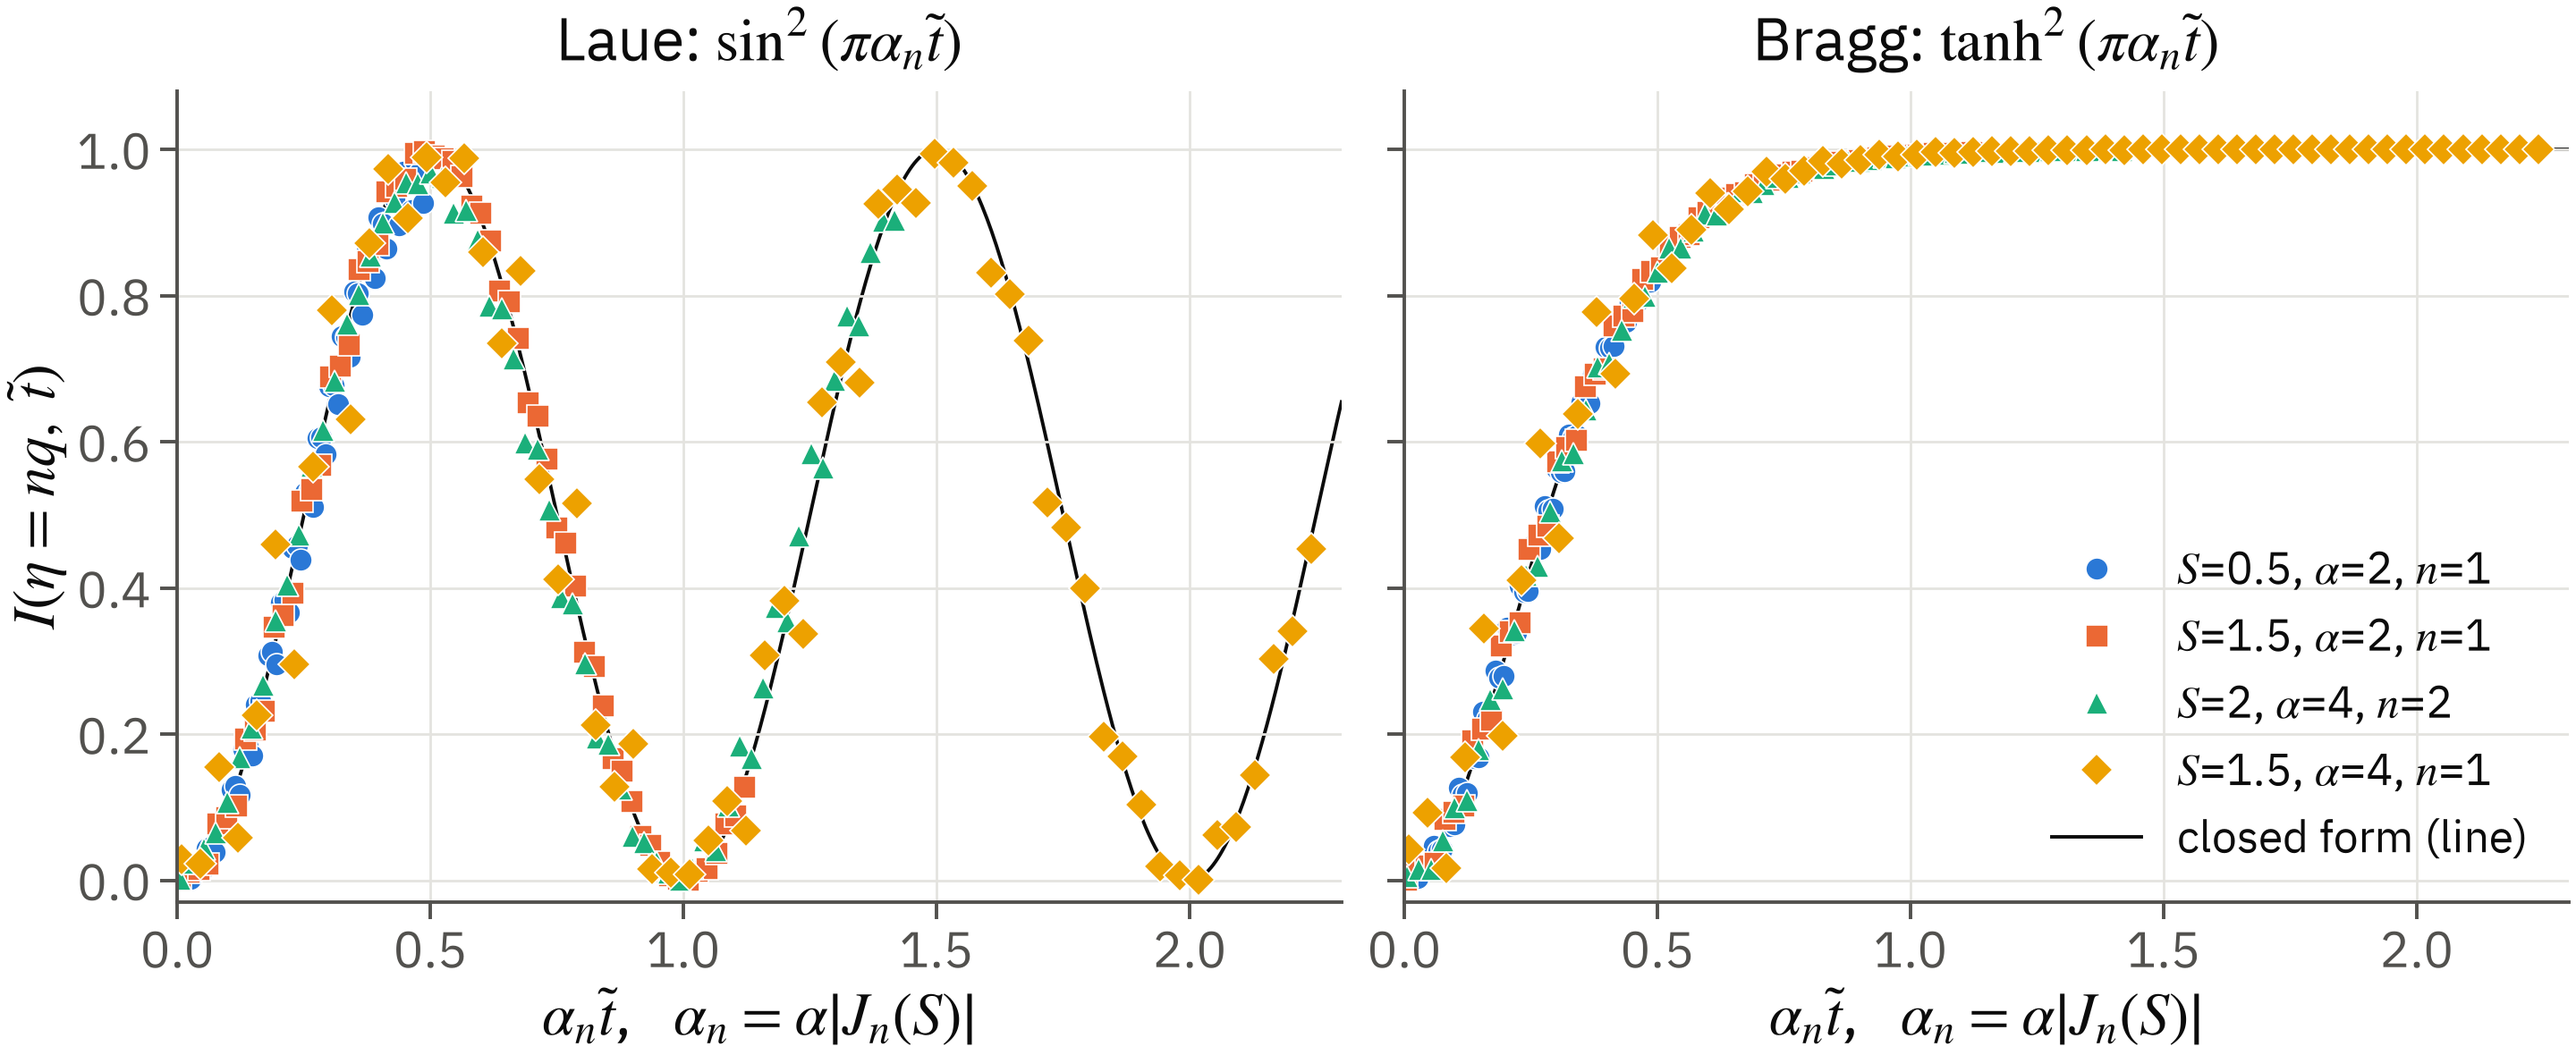
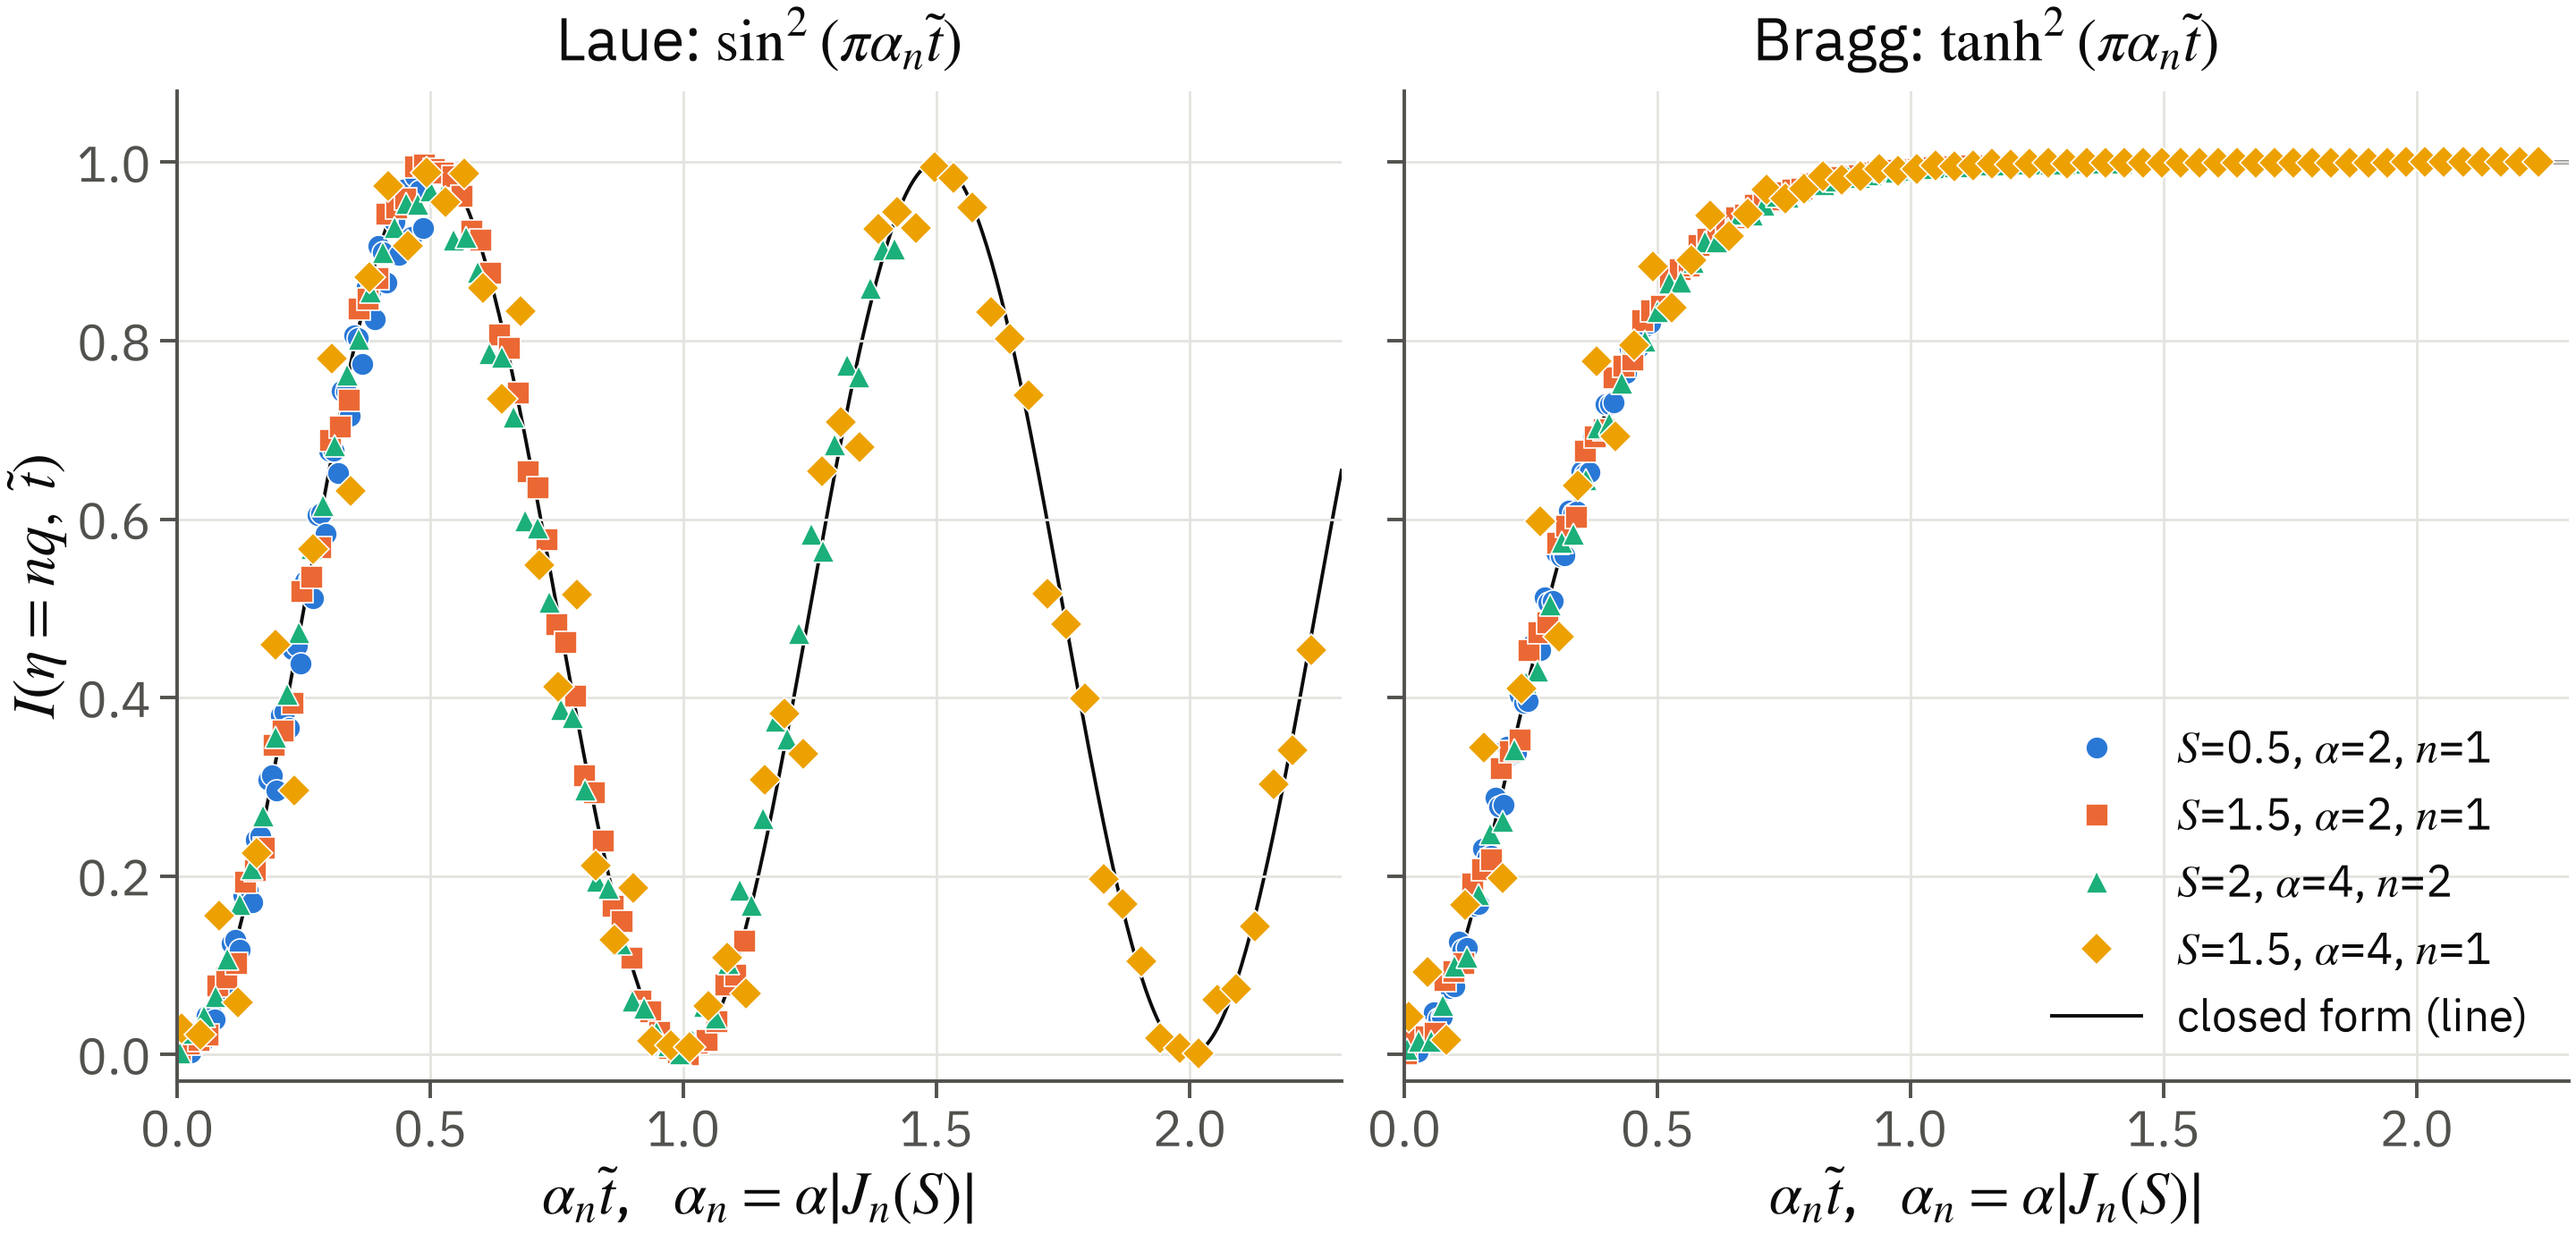
Poster: compress to three claims, with the evidence under them
Not a redesign. Same seven panels, same results; the emphasis is re-cut so a
passer-by leaves with three sentences instead of a list of findings:

  1 each satellite has its own dynamical clock;
  2 the transient remembers the drive history;
  3 the independent-satellite picture holds up to R ~ 0.3.

- Panel 1's band now ends on the contrast that carries the whole poster,
  "transit time sets the window; extinction length sets the clock", and names
  tau_n rather than spelling the coupling out.
- Panel 2 drops to three lines. Nobody reads the model panel; it only has to
  establish what was solved and that it was checked.
- Panel 3 states the mapping once and lets the collapse argue for itself: one
  bullet, two closed forms, the plot a sixth taller, and the Bessel-ladder
  sentence moved into the caption.
- Panel 5 gains a band, "same final amplitude != same diffraction state", so the
  up/down curves are readable without the text.
- Panel 6 is now a question, and leads with the answer: accurate to 5 % up to
  R <~ 0.3. Its figure gains the dashed boundary and the two regime labels, so
  the result survives without decoding the scatter. The mechanism is named as
  Entry 44 found it -- indirect paths through forward-beam sidebands -- not as
  vague hybridisation.
- Panel 7 replaces three unlabelled numbers with CLOCK / MEMORY / VALIDITY and
  one closing sentence; the Si 440 conditions move in with the outlook.
[…]

diff --git a/poster/build.py b/poster/build.py
@@ -1,4 +1,4 @@
-"""poster/poster.md -> poster/out/poster.pdf (+ PNG preview). Run: python poster/build.py [preview_dpi]
+r"""poster/poster.md -> poster/out/poster.pdf (+ PNG preview). Run: python poster/build.py [preview_dpi]
 
 Same idea as a print pipeline: the manuscript is canonical and read-only, every coordinate comes
 from SPEC (mm, page origin top-left), and the build ends with machine checks. Looking at the PNG
@@ -239,7 +239,8 @@ def bullet(P, it, x, y, w, draw=True):
         d = s["body_pt"] * PT_MM * 0.24                     # marker side
         mid = y + s["body_pt"] * PT_MM * (1 - XH / 2)       # middle of the x-height of the first line
         P.box(x + 0.5, mid - d / 2, d, d, s["accent"], r=0.5, z=3)
-    return P.flow(it["text"], x, y, w, s["body_pt"], indent=7, draw=draw) + s["para_gap"]
+    return P.flow(it["text"], x, y, w, s["body_pt"], indent=7, draw=draw,
+                  strong=s["accent"]) + s["para_gap"]
 
 
 def callout(P, it, x, y, w, draw=True):
@@ -281,7 +282,8 @@ def text_height(P, items, ix, iw):
         elif it["kind"] == "stats":
             y = stats(P, it, ix, y, iw, draw=False)
         elif it["kind"] == "para":
-            y = P.flow(it["text"], ix, y, iw, s["body_pt"], draw=False) + s["para_gap"]
+            y = P.flow(it["text"], ix, y, iw, s["body_pt"], draw=False,
+                      strong=s["accent"]) + s["para_gap"]
     return y
 
 
@@ -384,7 +386,8 @@ def build(preview_dpi=60, extra=None, save=True):
                     continue
                 y += P.image(f, ix, y, iw) + s["fig_gap"]
                 if it["caption"]:
-                    y = P.flow(it["caption"], ix, y, iw, s["caption_pt"], s["ink2"])
+                    y = P.flow(it["caption"], ix, y, iw, s["caption_pt"], s["ink2"],
+                                strong=s["accent"])
                 y += s["para_gap"]
             elif it["kind"] == "bullet":
                 y = bullet(P, it, ix, y, iw)
@@ -393,7 +396,8 @@ def build(preview_dpi=60, extra=None, save=True):
             elif it["kind"] == "stats":
                 y = stats(P, it, ix, y, iw)
             else:
-                y = P.flow(it["text"], ix, y, iw, s["body_pt"]) + s["para_gap"]
+                y = P.flow(it["text"], ix, y, iw, s["body_pt"],
+                           strong=s["accent"]) + s["para_gap"]
         if side:
             y = max(y, fyy)
         y += s["pad"] - s["para_gap"]

diff --git a/explore/make_poster_figs.py b/explore/make_poster_figs.py
@@ -153,7 +153,7 @@ def f0():
 def f1():
     import make_poster_figure as M
     style()
-    fig, ax = plt.subplots(1, 2, figsize=(FIG_W, 5.9), constrained_layout=True, sharey=True)
+    fig, ax = plt.subplots(1, 2, figsize=(FIG_W, 6.9), constrained_layout=True, sharey=True)
     M.collapse(ax[0], "laue", lambda s: np.sin(np.pi * s) ** 2, r"$\sin^2(\pi\alpha_n\tilde t)$",
                r"Laue: $\sin^2(\pi\alpha_n\tilde t)$", small=SMALL - 4, ms=9)
     M.collapse(ax[1], "bragg", lambda s: np.tanh(np.pi * s) ** 2, r"$\tanh^2(\pi\alpha_n\tilde t)$",
@@ -193,7 +193,7 @@ def f2():
 def f3():
     import make_memory_figure as M
     style()
-    fig, ax = plt.subplots(1, 2, figsize=(FIG_W, 5.9), constrained_layout=True)
+    fig, ax = plt.subplots(1, 2, figsize=(FIG_W, 5.55), constrained_layout=True)
     M.panel_a(ax[0], small=SMALL - 2, title=r"transient-only: $J_1(S_f)=0$")
     M.panel_b(ax[1], small=SMALL - 4, title="same strain, up vs down")
     for line in ax[0].lines + ax[1].lines:
@@ -213,7 +213,7 @@ def f4():
     import make_phase_figure as M
     style()
     P = M.merged()
-    fig, ax = plt.subplots(figsize=(FIG_W, 5.0), constrained_layout=True)
+    fig, ax = plt.subplots(figsize=(FIG_W, 4.2), constrained_layout=True)
     Ss = sorted(set(P[:, 2]))
     hues = plt.cm.viridis(np.linspace(0, 0.9, len(Ss)))
     for c, S in zip(hues, Ss):
@@ -222,7 +222,11 @@ def f4():
     for e, lab in ((0.05, "5 %"), (0.2, "20 %"), (0.5, "50 %")):
         ax.axhline(e, color=INK2, lw=1.4, ls=":")
         ax.text(1.3e-3, e * 1.12, lab, fontsize=SMALL, color=INK2)
-    ax.set(xscale="log", yscale="log", ylim=(5e-5, 1.5), xlim=(1e-3, 6),
+    # the boundary the panel is about, so the result is readable without decoding the scatter
+    ax.axvline(0.3, color=INK, lw=2.0, ls=(0, (5, 3)), zorder=4)
+    ax.text(0.26, 3.5e-5, "resolved satellites", fontsize=SMALL, color=INK, ha="right", va="bottom")
+    ax.text(0.35, 3.5e-5, "channels overlap", fontsize=SMALL, color=INK, ha="left", va="bottom")
+    ax.set(xscale="log", yscale="log", ylim=(2.2e-5, 1.5), xlim=(1e-3, 6),
            xlabel=r"$R=\Lambda_{ac}/\Lambda_P$", ylabel="population error $E_{pop}$")
     # nine S values: a discrete colour bar reads better than a nine-entry legend
     cmap = mpl.colors.ListedColormap(hues)

diff --git a/poster/poster.md b/poster/poster.md
@@ -9,6 +9,11 @@ footer: P2.17 · 2026 KPS Fall Meeting, Jeju, October 22, 2026 · This work was 
 Poster manuscript. This file is the only source of printed text; poster/build.py reads it and
 never edits it. Every item carries {E..} tags pointing at notes/lab_notebook.md (checked).
 Syntax: see the docstring of poster/build.py. Poster figures: python explore/make_poster_figs.py
+
+Three claims, in this order, and everything else is evidence for them:
+  1 each satellite has its own dynamical clock;
+  2 the transient remembers the drive history;
+  3 the independent-satellite picture holds up to R ~ 0.3.
 -->
 
 @wide
@@ -21,25 +26,23 @@ Temporal Pendellösung of the main reflection: DeCamp et al., Nature 413, 825 (2
 
 ![Snapshot at $\tilde t$ = 0.62: the profile inside the slab is the drive, the curve on the right the solved $I(\eta)$ of that same instant ($\alpha$ = 0.6, $S$ = 1.5, $\alpha_{ac}$ = 5).](figures/poster/f0_scheme.png){E0}
 
-> **Key result.** Behind the front, satellite $n$ is a crystal of the filled depth $v_s t$ with coupling $\pi\alpha\left|J_n(S)\right|$. Formation runs on a dynamical clock, $t_{tr}/(\alpha\left|J_n(S)\right|)$: the transit time only ends the transient. {E1}{E9}{E33}
+> **Key result.** Each satellite diffracts from the filled depth $v_s t$, on its own clock $\tau_n = \Lambda_P/(v_s\left|J_n(S)\right|)$. **Transit time sets the window; extinction length sets the clock.** {E1}{E9}{E33}
 
 ## Model
 
-- Two-beam Takagi–Taupin with a travelling deformation, Laue and Bragg: $\phi = S\,A(t-\zeta)\sin(q\zeta-qt)$; $\alpha = L/\Lambda_P$, $S = h\cdot u_0$, $R = \Lambda_{ac}/\Lambda_P$. {E0}
-- The X-ray crosses the crystal in 0.2 % of an acoustic period: the lattice is static while the field is inside, $\beta \leq 1.2\times10^{-2}$. {E62}
-- Verified to $10^{-9}$ against analytic limits and to $3\times10^{-7}$ against an independent exact Floquet solver. {E0}{E42}
+- Two-beam Takagi–Taupin, travelling acoustic deformation, Laue and Bragg. {E0}
+- $\alpha = L/\Lambda_P$, $S = h\cdot u_0$, $R = \Lambda_{ac}/\Lambda_P$; the lattice is static while the field is inside, $\beta \leq 1.2\times10^{-2}$. {E0}{E62}
+- Verified to $10^{-9}$ against analytic limits and $3\times10^{-7}$ against an independent exact Floquet solver. {E0}{E42}
 
 ## Filled-depth mapping: one law, no fit
 
-- Laue: $I(nq,t) = \sin^2(\pi\alpha_n t)$, a temporal Pendellösung with period $\Lambda_P/(v_s\left|J_n(S)\right|)$, independent of $L$. {E1}
-- Bragg: $I(nq,t) = \tanh^2(\pi\alpha_n t)$, formation time $0.95\,t_{tr}/\alpha_n$, capped at $t_{tr}$. {E9}
-- Formation order follows the Bessel ladder: channel $n$ first peaks at $t^*/t_{tr} = 1/(2\alpha\left|J_n(S)\right|)$, so $S$ reorders the channels (at $S=3$: $n=2$, then 1, then 3). {E1}{E24}
+- Behind the front, satellite $n$ is a crystal of filled depth $v_s t$ with coupling $\alpha_n = \alpha\left|J_n(S)\right|$: Laue reads $I_n(t) = \sin^2(\pi\alpha_n t)$, Bragg reads $\tanh^2(\pi\alpha_n t)$. {E1}{E9}
 
-![Points: full Takagi–Taupin for four $(S, \alpha, n)$; lines: closed forms, no fit parameter.](figures/poster/f1_collapse.png){E1}{E9}
+![Points: full Takagi–Taupin for four $(S, \alpha, n)$; lines: the closed forms, **no fit parameter**. The Laue period $\Lambda_P/(v_s\left|J_n(S)\right|)$ does not depend on $L$. Formation order follows the Bessel ladder, so $S$ reorders it — at $S=3$: $n=2$, then 1, then 3.](figures/poster/f1_collapse.png){E1}{E9}{E24}
 
 ## Formation is not peak growth
 
-- At the dark point ($\alpha_n t = 1$) the centre falls to 0.1–0.2 % of maximum, yet ~52 % of the integrated satellite sits in two side lobes: fringes flow inward. {E23}
+- At the dark point ($\alpha_n t = 1$) the centre falls to **0.1–0.2 %** of maximum, yet **≈52 %** of the integrated satellite sits in two side lobes: fringes flow inward. {E23}
 
 ![Satellite $n=1$, $S=1.5$, $\alpha=3$: the line narrows and blinks as the front fills the crystal.](figures/poster/f2_fringes.png){E22}{E23}
 
@@ -47,23 +50,25 @@ Temporal Pendellösung of the main reflection: DeCamp et al., Nature 413, 825 (2
 
 ## Formation remembers the path
 
-Satellite $n$ reads the last $t_{tr}$ of the drive, $\Theta_n = \int J_n(S\,A(t-\zeta))\,d\zeta$. An order forbidden at the final amplitude ($J_1(S_f)=0$) is the brightest during formation. {E28}{E30}{E34}
+> **Same final amplitude $\neq$ same diffraction state.** {E30}
+
+- Satellite $n$ reads the last $t_{tr}$ of the drive, $\Theta_n = \int J_n(S\,A(t-\zeta))\,d\zeta$: an order forbidden at the final amplitude ($J_1(S_f)=0$) is the **brightest** line during formation. {E28}{E30}{E34}
 
 ![Laue, $\alpha=0.5$: points full TT, lines the $\Theta_n$ law.](figures/poster/f3_memory.png){E28}{E30}
 
-## Validity map of the satellite picture
+## When does the independent-satellite picture fail?
 
-- With the exact phase average, satellites stay independent channels (error below 5%) up to $R$ = 0.34–0.57, depending on $S$. {E53}{E54}
-- Near resonance ($R \sim 1$) Bessel-dark orders reappear via a third-order coupling $\pi\alpha (R/2)^2 C_n(S)$. {E45}{E50}{E52}
+- Accurate to 5 % up to $R \lesssim 0.3$; measured boundary **0.34–0.57**, depending on $S$. {E53}{E54}
+- Past it the channels talk through sidebands of the forward beam — the same third-order path, $\pi\alpha (R/2)^2 C_n(S)$, that brings a Bessel-dark order back. {E44}{E45}{E50}{E52}
 
-![](figures/poster/f4_regime.png){E54}
+![Population error of the independent-channel picture. Each point is one $(\alpha, \alpha_{ac}, S)$, exact acoustic-phase average.](figures/poster/f4_regime.png){E54}
 
-## Conclusion and outlook
+## Take home
 
-%% 0 | fit parameters: one law for every order, Laue and Bragg {E1}{E9}
-%% 1–3 % | phase walls vs stacking-fault theory {E56}
-%% ~1 % | in-situ calibration of S, $\alpha\left|J_2\right|\geq 0.5$ {E13}
+%% CLOCK | $\tau_n=\Lambda_P/(v_s\left|J_n(S)\right|)$, set by each order's own extinction length {E1}{E9}
+%% MEMORY | the last $t_{tr}$ of the drive, not the final amplitude {E30}
+%% VALIDITY | independent satellites to 5 % for $R \lesssim 0.3$ {E54}
 
-- Every order, Laue and Bragg, runs on one dynamical clock, set by its own extinction length. {E1}{E9}{E33}
-- Si 440 at 17–30 keV with a 1–2 GHz drive: $\tau_1$ = 17–30 ns. {E20}
-- Outlook: a closed-form transfer function maps Bragg oscillations to phonon spectra. {E59}
+A travelling acoustic front makes every Bragg satellite a dynamical probe: its own clock, its own memory of the drive, valid while the channels stay resolved. {E33}
+
+- Si 440 at 17–30 keV, 1–2 GHz: $\tau_1$ = 17–30 ns. Outlook: a closed-form transfer function maps Bragg oscillations to phonon spectra. {E20}{E59}
